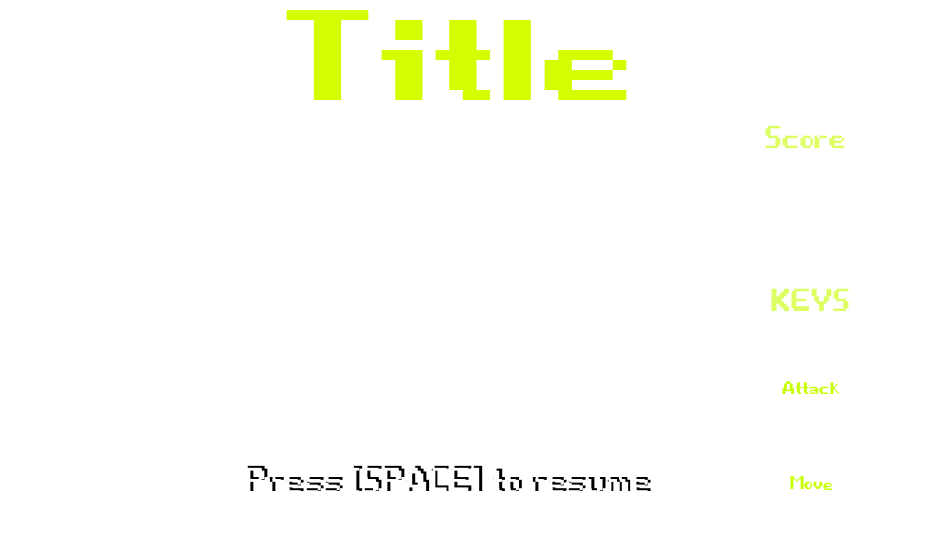
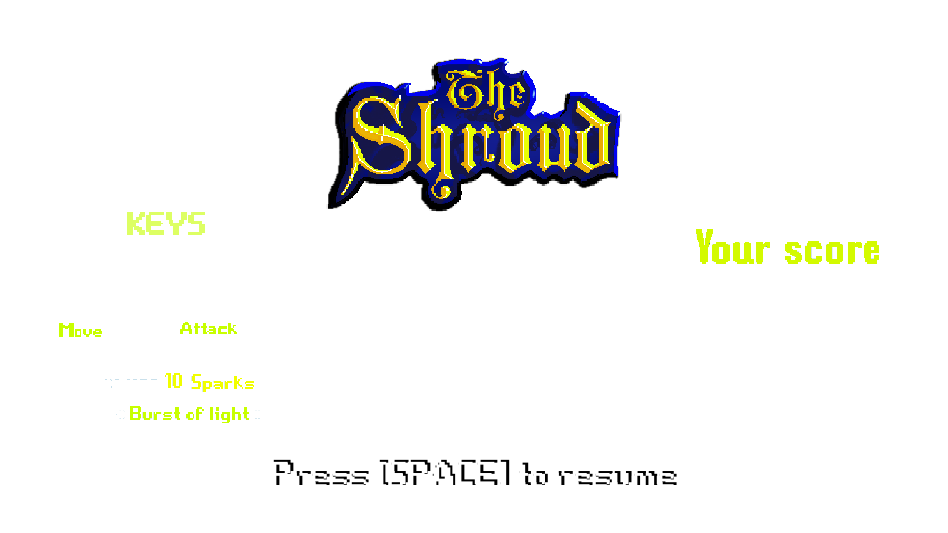
add score on pause screen

diff --git a/public/index.js b/public/index.js
@@ -91,6 +91,7 @@ const startGameLoop = () => {
 const startMenu = document.querySelector('#start-menu');
 const pauseMenu = document.querySelector('#pause-menu');
 const deathMenu = document.querySelector('#death-menu');
+const score = document.querySelector('#score');
 
 const pause = () => {
   if (state.playing) {
@@ -98,6 +99,7 @@ const pause = () => {
     clearInterval(gameLoopInterval);
     gameLoopInterval = undefined;
     pauseMenu.style.display = 'block';
+    score.style.display = 'block';
     changeMusic([startMusic]);
   }
 };
@@ -108,6 +110,7 @@ const death = () => {
     clearInterval(gameLoopInterval);
     gameLoopInterval = undefined;
     deathMenu.style.display = 'block';
+    score.style.display = 'block';
     changeMusic([startMusic]);
   }
 };
@@ -120,6 +123,7 @@ const play = () => {
     startMenu.style.display = 'none';
     pauseMenu.style.display = 'none';
     deathMenu.style.display = 'none';
+    score.style.display = 'none';
     changeMusic([gameMusic, shroudMusic]);
   }
 };

diff --git a/public/index.css b/public/index.css
@@ -28,10 +28,11 @@ li {
 #score{
   color:white; 
   position: absolute;
-  right: 450px;
-  top: 250px;
-  font-size: 3rem;
+  right: 290px;
+  top: 430px;
+  font-size: 4rem;
   font-family: 'Pixelify Sans', cursive;
+  display:none;
 }
 
 #game {

diff --git a/public/index.html b/public/index.html
@@ -42,7 +42,7 @@
     </div>
     <div id="death-menu" >
     <img src="assets/images/interface/death-screen.png" alt="">
-      <div id="score">0</div>
     </div>
+    <div id="score">0</div>
   </body>
 </html>
